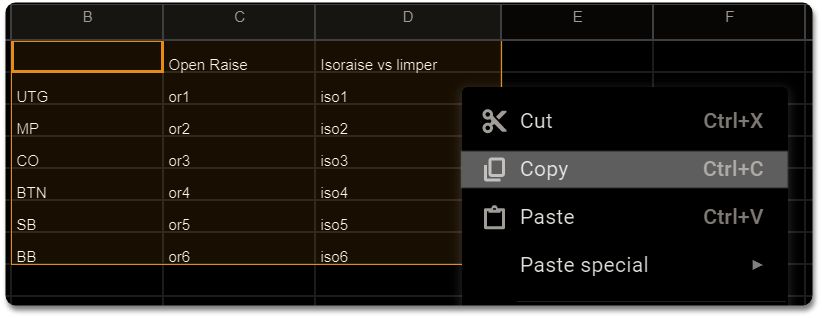
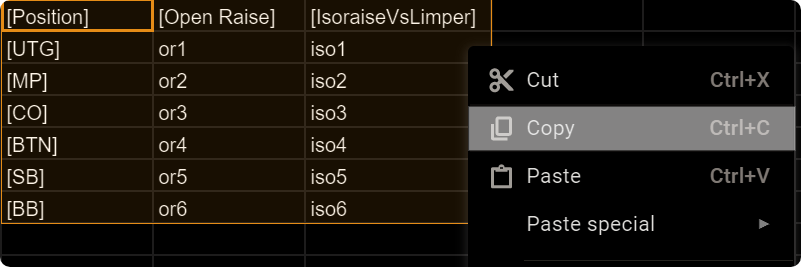
add: main page

diff --git a/docs/.vuepress/components/table-1.vue b/docs/.vuepress/components/table-1.vue
@@ -1,0 +1,6 @@
+<template>
+  <div>
+    <div class="block"><!--!--><div><span class="priority_low">OpenRaiseTable is:</span><!--!-->
+            <div class="data-grid" style="grid-template-columns: repeat(3, min-content)"><div style="grid-column: 2; grid-row: 2"><span>or1</span></div><div style="grid-column: 3; grid-row: 2"><span>iso1</span></div><div style="grid-column: 2; grid-row: 3"><span>or2</span></div><div style="grid-column: 3; grid-row: 3"><span>iso2</span></div><div style="grid-column: 2; grid-row: 4"><span>or3</span></div><div style="grid-column: 3; grid-row: 4"><span>iso3</span></div><div style="grid-column: 2; grid-row: 5"><span>or4</span></div><div style="grid-column: 3; grid-row: 5"><span>iso4</span></div><div style="grid-column: 2; grid-row: 6"><span>or5</span></div><div style="grid-column: 3; grid-row: 6"><span>iso5</span></div><div style="grid-column: 2; grid-row: 7"><span>or6</span></div><div style="grid-column: 3; grid-row: 7"><span>iso6</span></div><div style="grid-column: 1; grid-row: 1"><span class="priority_low data-grid__header-cell">Position</span></div><div style="grid-column: 2; grid-row: 1"><span class="priority_low data-grid__header-cell">Open Raise</span></div><div style="grid-column: 3; grid-row: 1"><span class="priority_low data-grid__header-cell">IsoraiseVsLimper</span></div><div style="grid-column: 1; grid-row: 2"><span class="priority_low data-grid__header-cell">UTG</span></div><div style="grid-column: 1; grid-row: 3"><span class="priority_low data-grid__header-cell">MP</span></div><div style="grid-column: 1; grid-row: 4"><span class="priority_low data-grid__header-cell">CO</span></div><div style="grid-column: 1; grid-row: 5"><span class="priority_low data-grid__header-cell">BTN</span></div><div style="grid-column: 1; grid-row: 6"><span class="priority_low data-grid__header-cell">SB</span></div><div style="grid-column: 1; grid-row: 7"><span class="priority_low data-grid__header-cell">BB</span></div></div></div></div>
+  </div>
+</template>

diff --git a/docs/.vuepress/components/threeway-1.vue b/docs/.vuepress/components/threeway-1.vue
@@ -1,0 +1,9 @@
+<template>
+  <div>
+    <div class="block"><!--!--><div class="data-grid " style="grid-template-columns: repeat(2, min-content)"><!--!--><div class="priority_middle data-grid__header-cell">Winner</div>
+    <!--!--><div class="priority_middle data-grid__header-cell">Equity</div><div class="data-grid__cell no-wrap equity-result__row--lower-equity">TT+ AT+ A5s+</div><!--!-->
+        <div class="data-grid__cell equity-result__row--lower-equity">25.91%</div><div class="data-grid__cell no-wrap equity-result__row--highest-equity">top3%</div><!--!-->
+        <div class="data-grid__cell equity-result__row--highest-equity">44.08%</div><div class="data-grid__cell no-wrap equity-result__row--low-equity">67s</div><!--!-->
+        <div class="data-grid__cell equity-result__row--low-equity">30.01%</div></div></div>
+  </div>
+</template>

diff --git a/docs/.vuepress/config.js b/docs/.vuepress/config.js
@@ -18,7 +18,7 @@ module.exports = {
     '/': {
       lang: 'en-US', // this will be set as the lang attribute on <html>
       title: 'HackPoker',
-      description: 'Description'
+      description: 'Guide'
     },
     '/ru/': {
       lang: 'ru-Ru',
@@ -63,6 +63,11 @@ module.exports = {
               ['', 'Examples']
             ],
             '/': [     
+              { 
+                title: 'Introduction',           
+                collapsable: false, 
+                path: '/introduction',                
+              },
               { 
                 title: 'Game Mode',           
                 collapsable: false, 

diff --git a/docs/introduction.md b/docs/introduction.md
@@ -1,0 +1,17 @@
+# Introduction 
+
+HackPoker is a powerful tool that can help with game analysis and strategy development. And yes you need to type to use it, :) which might be challenging at first, but it should become second nature in no time. </br>
+
+Perhaps, you want to calculate equity 3way on T high board. No problem, just enter a command: </br>
+<code>TT+ AT+ A5s+ vs top 3% vs 67s on T[2-9][2-9]</code>
+
+<threeway-1/>
+
+
+Notice how <code>vs</code> is used to separate ranges and <code>on</code> to specify a board. It is that simple and intuitive.</br>
+What on earth is this <code>T[2-9][2-9]</code> you might be wondering ? :) Well that's how we specify ten high board. <code>[2-9]</code> are cards from deuce to nine.
+
+You can calculate [Hand Strength Distribution](/hsd), create and save [Ranges](/uservariables/introduction) and more. 
+
+If you have any questions whatsoever contact HackPoker <a href="https://t.me/maxslayer">creator</a> directly or join our  <a href="https://discord.gg/5YfTaCqJ7Q">discord</a> community. 
+

diff --git a/docs/uservariables/tables.md b/docs/uservariables/tables.md
@@ -1,5 +1,3 @@
-# Not yet implemented
-
 # Tables
 
 <div class="tip custom-block">
@@ -10,14 +8,18 @@ Tables are a convinient way to organize User Variables.
 </p>
 </div>
 
-### 1. Create a table in Google Sheets and copy it. 
+1. Create a table in <a href="https://www.google.com/sheets/about/">Google Sheets</a> and copy it. To specify Header cells put text inside the square brackets <code>[Header Cell Text]</code>. 
 
 ![Table Copy Image](/images/tablecopy.png)
 
-### 2. In Command Line type in <code>table</code> followed by a name you want to give to your table, followed by <code>Space</code> and paste data from Clipboard, press <code>Enter</code>.
+2. In Command Line type in table name followed by <code>Space</code> and paste data from Clipboard. Press <code>Enter</code>.
 
-![Table Command Image](/images/tablecommand.png)
+For instance: 
 
-### 3. Type in table name and press<code>Enter</code> to see the table.  
+![Table Copy Image](/images/table.png)
+
+3. The Result: 
+
+<table-1/>
 
 

diff --git a/docs/ReadMe.md b/docs/ReadMe.md
@@ -1,3 +1,23 @@
-# Hack Poker - New Free Poker Calculator
+---
+# Specify this is the home page 
+# (and therefore uses the Home.vue template)
+home: true
+# Put a big centered H1 in the middle of the page
+heroText: New Poker Calculator
+
+# Image for the center of the home page
+heroImage: /images/logo.png
+
+# Explain what the site is all about
+tagline: Learn how HackPoker can help you analyze your game
+
+# Text for the big green button:
+actionText: Start Learning →
+
+# Page big green button should link to. 
+actionLink: ./introduction.md
+---
+
+
 
 
